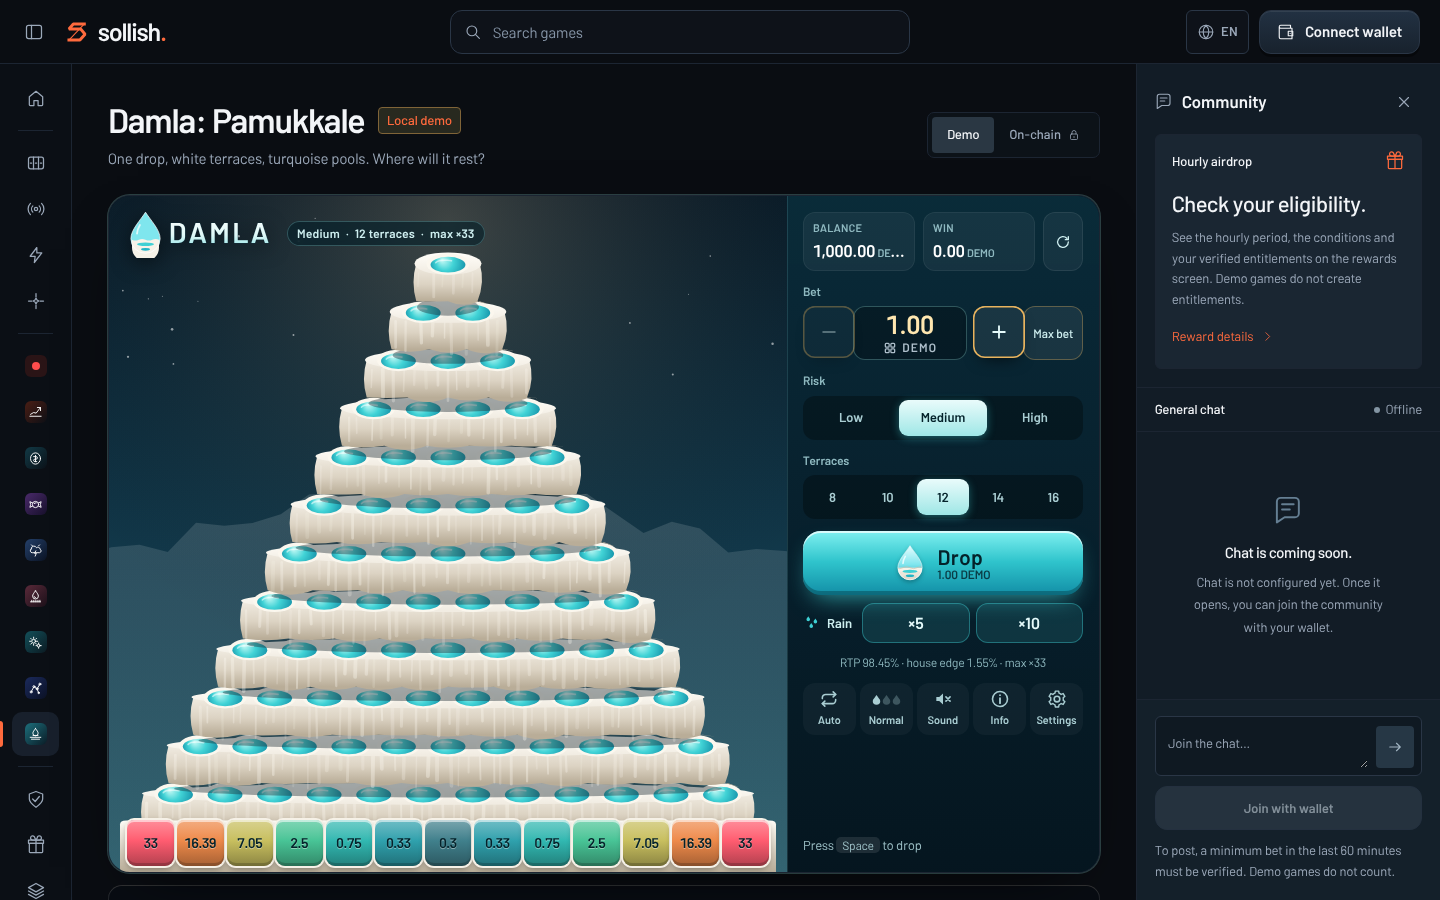
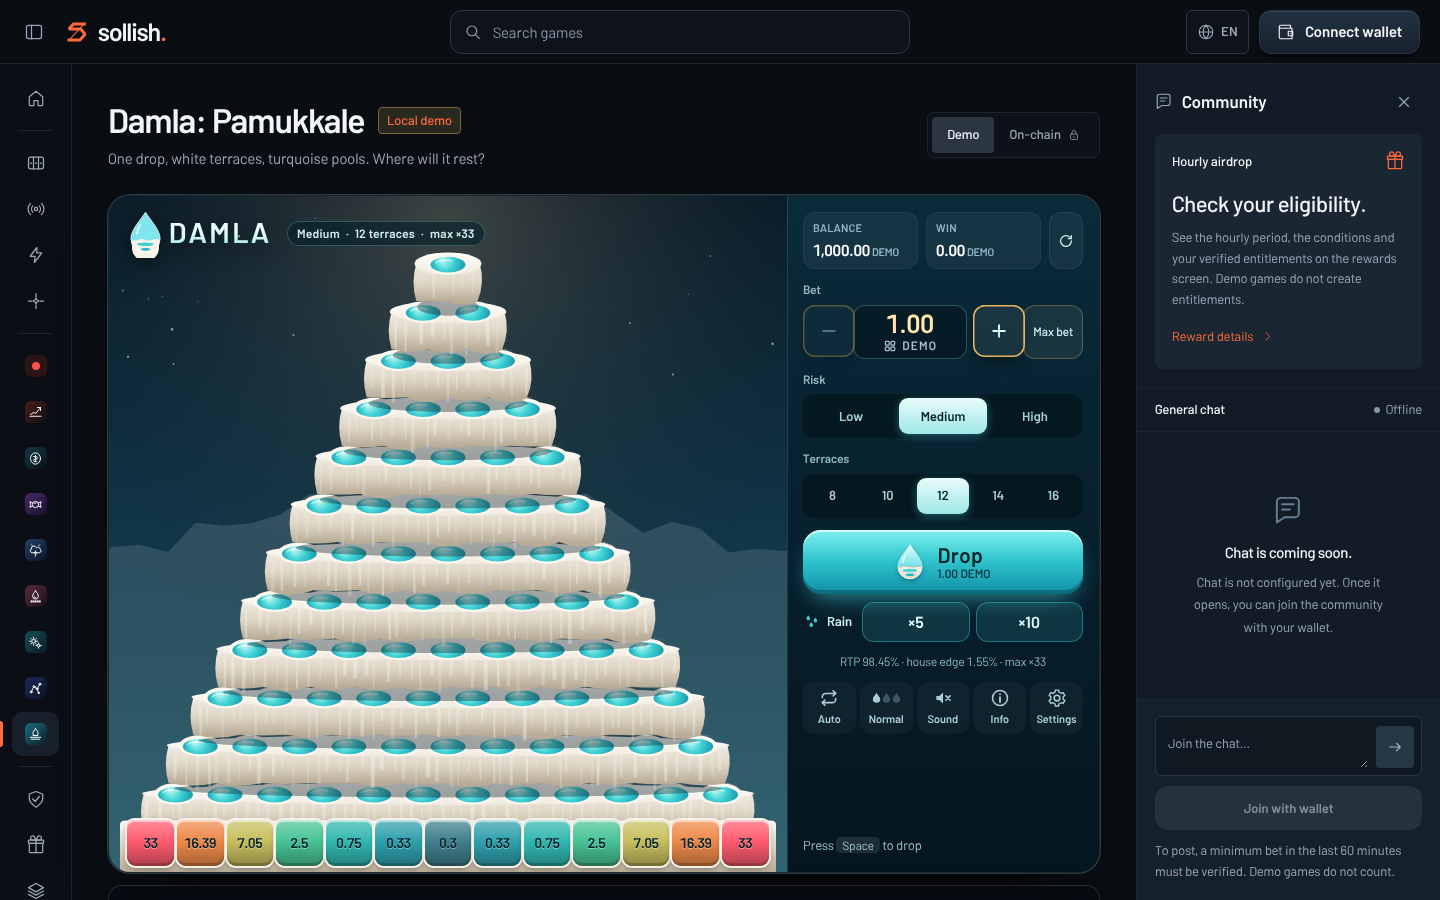
WIP: agents in progress (Göreme screen/audio, Damla screen)
Claude-Session: https://claude.ai/code/session_01XMMN66zs1aJKgzKGtwpiHy

diff --git a/apps/web/components/damla/damla-game.module.css b/apps/web/components/damla/damla-game.module.css
@@ -57,7 +57,7 @@
   background: radial-gradient(120% 90% at 50% 0%, rgba(255, 255, 255, 0.9), transparent 60%);
 }
 .poolLabel {
-  position: relative; font-size: var(--pool-font, 12px); font-weight: 800; color: var(--dm-ink); letter-spacing: -0.3px;
+  position: relative; font-size: var(--pool-font, 12px); max-width: 100%; overflow: hidden; font-weight: 800; color: var(--dm-ink); letter-spacing: -0.3px;
   font-variant-numeric: tabular-nums; white-space: nowrap; text-shadow: 0 1px 0 rgba(255, 255, 255, 0.4);
 }
 .pool[data-hit] .poolWater { animation: poolGlow 0.9s ease-out; }
@@ -78,7 +78,7 @@
 .autoRibbon svg { width: 15px; height: 15px; }
 
 .callout {
-  position: absolute; z-index: 6; left: 50%; top: 40%; transform: translate(-50%, -50%);
+  position: absolute; z-index: 6; left: 50%; top: 46%; transform: translate(-50%, -50%);
   display: flex; flex-direction: column; align-items: center; gap: 2px; pointer-events: none;
   animation: callout 1.9s cubic-bezier(.2,.8,.3,1) forwards;
 }
@@ -96,7 +96,7 @@
 @keyframes callout { 0% { opacity: 0; transform: translate(-50%, -40%) scale(0.5); } 12% { opacity: 1; transform: translate(-50%, -50%) scale(1.08); } 22% { transform: translate(-50%, -50%) scale(1); } 80% { opacity: 1; transform: translate(-50%, -54%) scale(1); } 100% { opacity: 0; transform: translate(-50%, -62%) scale(0.96); } }
 
 .goldBanner {
-  position: absolute; z-index: 6; left: 50%; top: 22%; transform: translateX(-50%); pointer-events: none; white-space: nowrap;
+  position: absolute; z-index: 6; left: 50%; top: 13%; transform: translateX(-50%); pointer-events: none; white-space: nowrap;
   font-size: clamp(20px, 3.6vw, 36px); font-weight: 800; letter-spacing: 4px; color: #fff4c6;
   text-shadow: 0 0 18px rgba(255, 200, 60, 0.95), 0 3px 0 #7a4a00; animation: goldBanner 2.6s ease-out forwards;
 }
@@ -118,14 +118,14 @@
 /* ------------------------------------------------------------------ deck */
 .side { position: relative; min-width: 0; min-height: 0; overflow-y: auto; background: linear-gradient(180deg, rgba(10, 44, 58, 0.96), rgba(5, 22, 32, 0.98)); box-shadow: inset 1px 0 0 rgba(159, 240, 238, 0.14); }
 .deck { display: flex; flex-direction: column; gap: 12px; padding: 16px; min-height: 100%; }
-.money { display: grid; grid-template-columns: 1fr 1fr auto; gap: 8px; align-items: stretch; }
+.money { display: grid; grid-template-columns: 1fr 1fr 34px; gap: 8px; align-items: stretch; }
 .cell { min-width: 0; padding: 8px 10px; border-radius: 12px; background: rgba(255, 255, 255, 0.05); box-shadow: inset 0 0 0 1px rgba(255, 255, 255, 0.06); display: grid; gap: 2px; }
 .cellLabel { font-size: 11px; font-weight: 600; letter-spacing: 0.4px; text-transform: uppercase; color: #8fb9c0; white-space: nowrap; overflow: hidden; text-overflow: ellipsis; }
 :root:lang(zh) .cellLabel, :root:lang(ko) .cellLabel { letter-spacing: 0; }
-.cellValue { font-size: 17px; font-weight: 700; color: #fff; font-variant-numeric: tabular-nums; white-space: nowrap; overflow: hidden; text-overflow: ellipsis; }
+.cellValue { font-size: 16px; letter-spacing: -0.2px; font-weight: 700; color: #fff; font-variant-numeric: tabular-nums; white-space: nowrap; overflow: hidden; text-overflow: ellipsis; }
 .cellValue small { font-size: 11px; font-weight: 600; color: #8fb9c0; }
 .cellWin { color: var(--dm-aqua-hi); }
-.refill { width: 40px; display: grid; place-items: center; border-radius: 12px; background: rgba(255, 255, 255, 0.05); color: #cfeff0; box-shadow: inset 0 0 0 1px rgba(255, 255, 255, 0.08); }
+.refill { width: 34px; display: grid; place-items: center; border-radius: 12px; background: rgba(255, 255, 255, 0.05); color: #cfeff0; box-shadow: inset 0 0 0 1px rgba(255, 255, 255, 0.08); }
 .refill:hover:not(:disabled) { background: rgba(63, 208, 212, 0.18); }
 .refill:disabled { opacity: 0.4; }
 

diff --git a/apps/web/components/damla/board.tsx b/apps/web/components/damla/board.tsx
@@ -186,7 +186,7 @@ export const DamlaBoard = memo(forwardRef<DamlaBoardHandle, { rows: number; pool
             <li key={`${rows}-${k}`} className={styles.pool} data-testid={`damla-pool-${k}`} data-edge={d >= 0.999 || undefined}
               style={{ '--pool': poolColor(d, goldEdge) } as CSSProperties} aria-label={pool.aria}>
               <span className={styles.poolWater} aria-hidden="true" />
-              <span className={styles.poolLabel} aria-hidden="true">{pool.text}</span>
+              <span className={styles.poolLabel} aria-hidden="true" style={pool.text.length > 3 ? { fontSize: `${Math.max(7, Math.min(14, ((size ? size.w : 300) / (rows + 1)) * 0.36, ((size ? size.w * 0.95 : 300) / (rows + 1) - 4) / (pool.text.length * 0.56)))}px` } : undefined}>{pool.text}</span>
             </li>
           );
         })}

diff --git a/apps/web/lib/slot-audio/goreme-lab-panel.tsx b/apps/web/lib/slot-audio/goreme-lab-panel.tsx
@@ -73,7 +73,7 @@ export function GoremeAudioLab() {
   const roundDemo = (mode: 'standard' | 'buy') => {
     clearTimers();
     const x = s(); if (!x) return;
-    const bytes = new Uint8Array(32); crypto.getRandomValues(bytes);
+    const bytes = new Uint8Array(16); crypto.getRandomValues(bytes);
     const seed = [...bytes].map(b => b.toString(16).padStart(2, '0')).join('');
     const round = playGoremeRound(seed, 100, mode);
     const lines: string[] = [`seed ${seed.slice(0, 12)}… · ${mode} · ${round.spins.length} dönüş · toplam ${(round.totalHundredths / 100).toFixed(2)}× bahis`];
